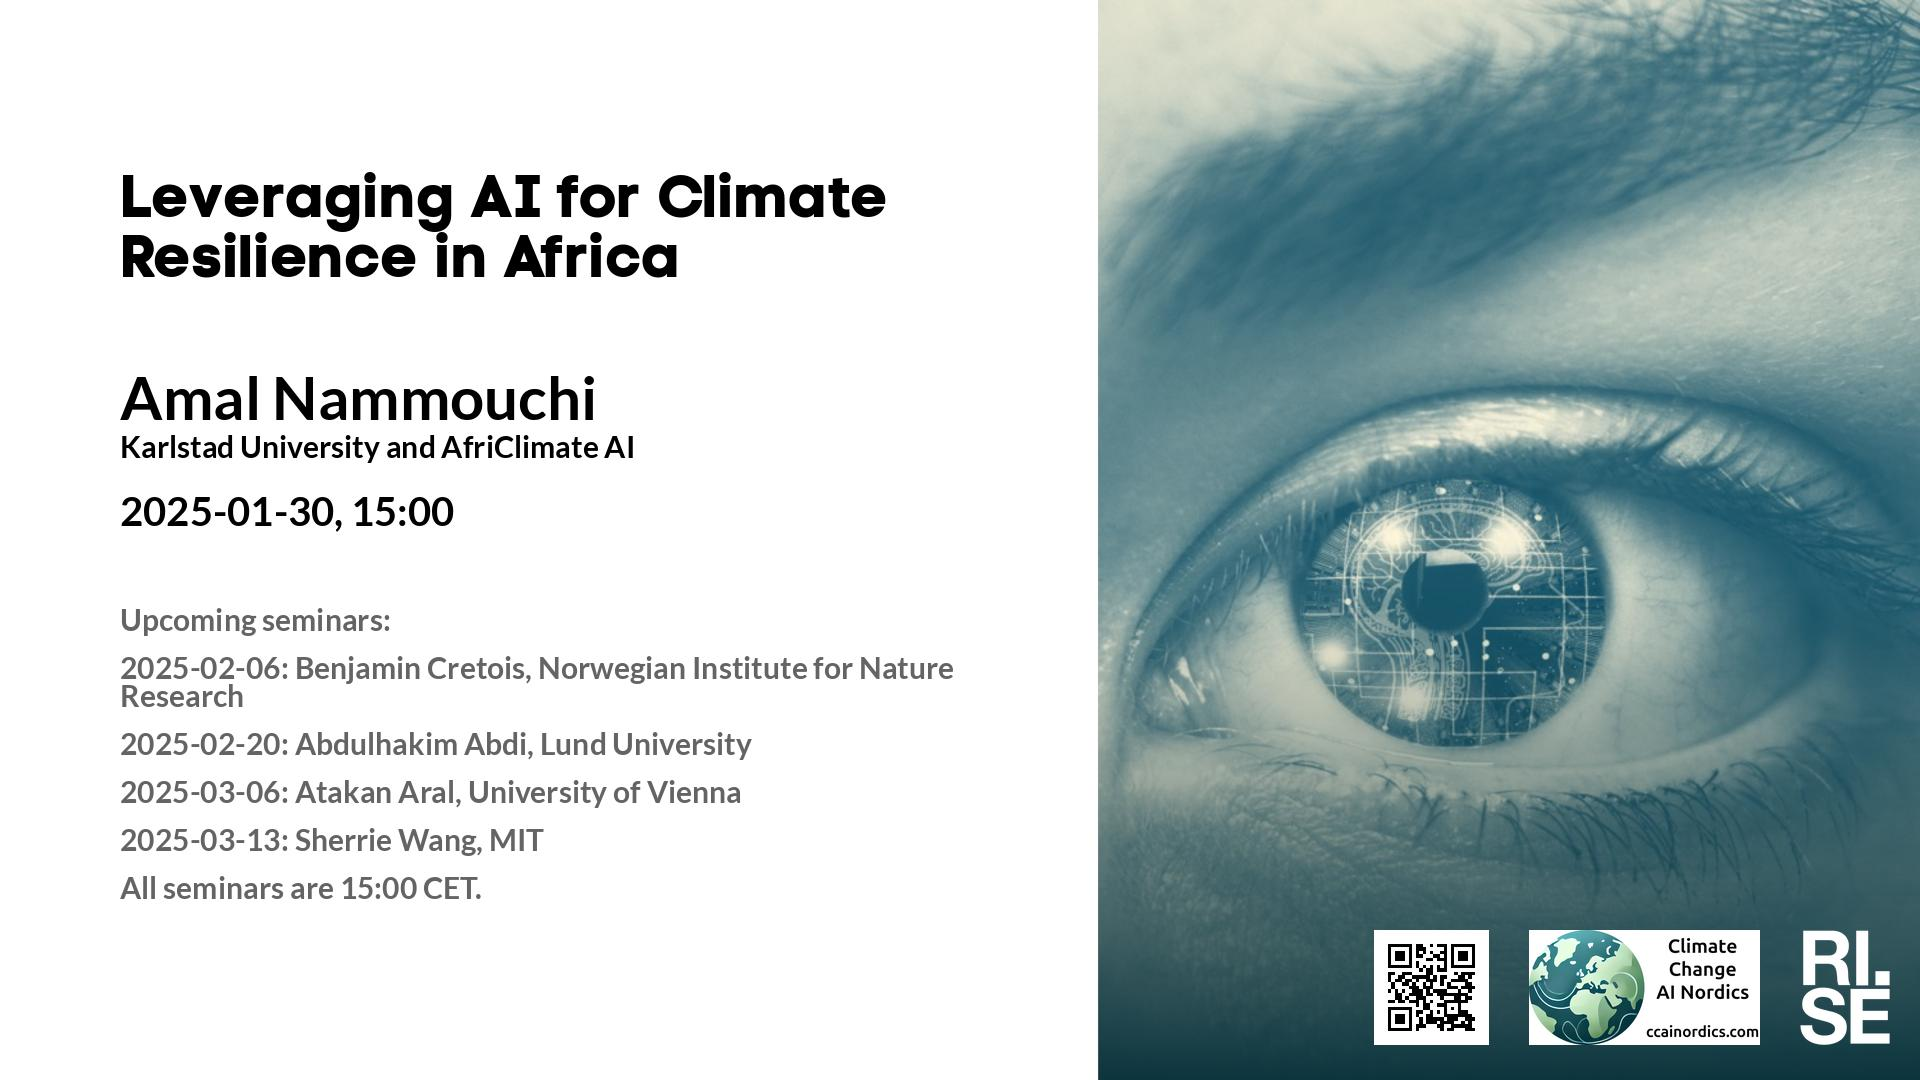
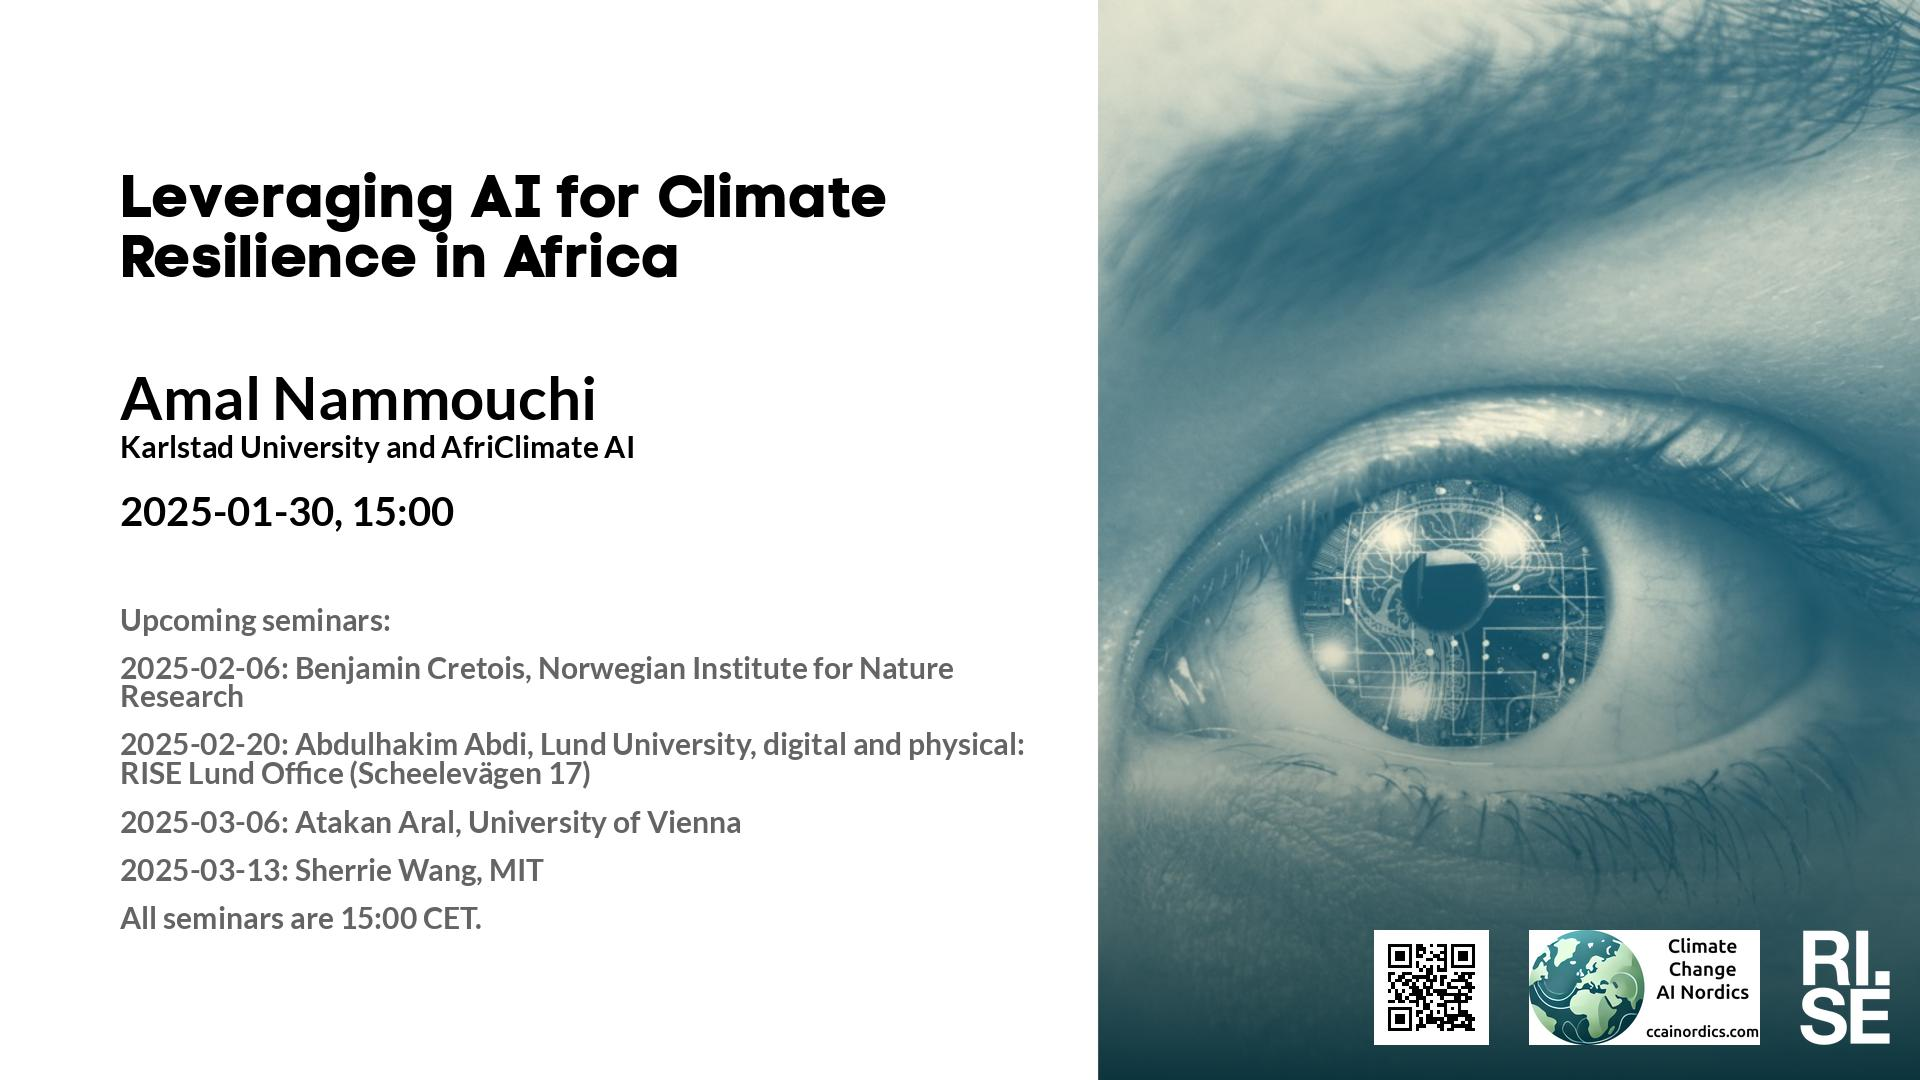
Updated plan on web site.

Changed region(s): [[0.0625, 0.7028, 0.4062, 0.8556], [0.375, 0.6722, 0.5312, 0.7028]]

diff --git a/lm/2025-02-20.md b/lm/2025-02-20.md
@@ -15,11 +15,15 @@ This seminar is a collaboration between RISE and Climate AI Nordics -- [climatea
 
 **About the speaker:** N/A
 
-**Location:** This is an online seminar. Connect using Zoom.
+**Location:** RISE Lund Office (Scheelevägen 17), or online using Zoom.
 
 **Date:** 2025-02-20 15:00
 
 **Zoom link:** [https://rise.zoom.us/j/69691371971?pwd=WLNbIraFLQdgnCdXG2mqlNrYbSCJUN.1](https://rise.zoom.us/j/69691371971?pwd=WLNbIraFLQdgnCdXG2mqlNrYbSCJUN.1)
+
+
+This seminar will have an in-person presence at RISE Lund Office (Scheelevägen 17). Make sure that you arrive in good time.
+
 
 **Upcoming seminars:**
 

diff --git a/lm/2025-01-30.md b/lm/2025-01-30.md
@@ -24,7 +24,7 @@ This seminar is a collaboration between RISE and Climate AI Nordics -- [climatea
 **Upcoming seminars:**
 
 * 2025-02-06: Benjamin Cretois, Norwegian Institute for Nature Research
-* 2025-02-20: Abdulhakim Abdi, Lund University
+* 2025-02-20: Abdulhakim Abdi, Lund University, **digital and physical: RISE Lund Office (Scheelevägen 17)**
 * 2025-03-06: Atakan Aral, University of Vienna
 * 2025-03-13: Sherrie Wang, MIT
 * All seminars are 15:00 CET.

diff --git a/lm/2025-02-06.md b/lm/2025-02-06.md
@@ -27,7 +27,7 @@ In this talk, we will also share our experiences with the deployment of acoustic
 
 **Upcoming seminars:**
 
-* 2025-02-20: Abdulhakim Abdi, Lund University
+* 2025-02-20: Abdulhakim Abdi, Lund University, **digital and physical: RISE Lund Office (Scheelevägen 17)**
 * 2025-03-06: Atakan Aral, University of Vienna
 * 2025-03-13: Sherrie Wang, MIT
 * 2025-03-27: María J. Molina, University of Maryland
